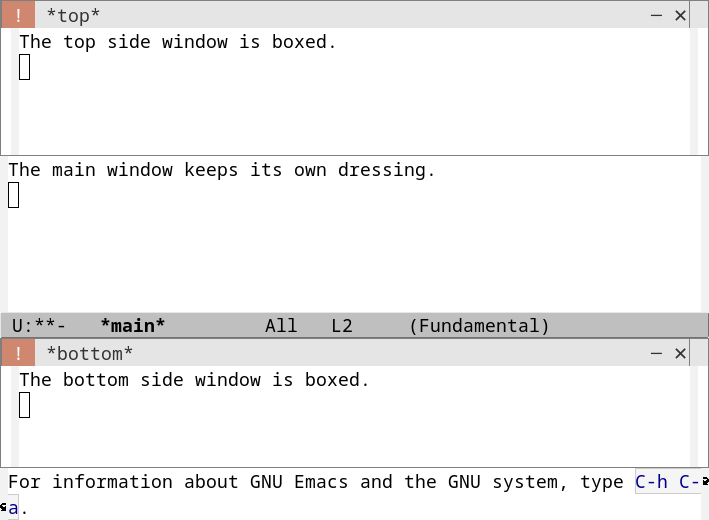
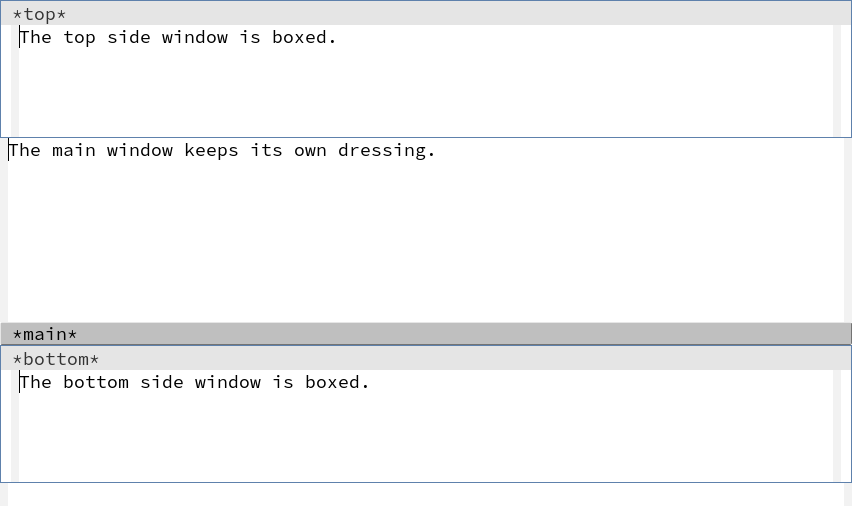
docs: one width and one theme for every picture
All five README pictures are 852 pixels wide and share one theme: a
white ground, near black text, the grey of a GUI mode line, and the
box in #5e81ac.  The screenshot of the side windows moves from the
measuring rig into shots.el, at the same frame as the other scenes.
The terminal picture, the odd dark one out, is painted with the
light palette onto a canvas of the same width; a terminal of 256
colors has no #5e81ac, so the scene names it and Emacs sends the
nearest, #5f87af.  Each picture validated pixel by pixel: text ink
dark, box blue, widths equal.

diff --git a/demo/shots.py b/demo/shots.py
@@ -18,19 +18,24 @@ import time
 import pyte
 from PIL import Image, ImageDraw, ImageFont
 
-COLS, ROWS = 84, 26
+WIDTH, ROWS = 852, 26
 # In order of preference, among the fonts that have the box drawing
 # characters — a font without them draws the box as nothing at all.
 FONTS = ["Source Code Pro", "DejaVu Sans Mono", "Liberation Mono"]
 SIZE = 15
 PAD = 10
-BACKGROUND = (28, 31, 38)
-FOREGROUND = (216, 222, 233)
+# The palette of the graphic screenshots: white ground, near black
+# text, the grey of a GUI mode line for reverse video, and "blue" as
+# the #5e81ac the graphic pictures draw the box in.  One theme for
+# every picture in the README.
+BACKGROUND = (255, 255, 255)
+FOREGROUND = (26, 26, 26)
+REVERSE = (229, 229, 229)
 NAMED = {
-    "black": (28, 31, 38), "red": (191, 97, 106), "green": (163, 190, 140),
-    "brown": (235, 203, 139), "blue": (94, 129, 172),
-    "magenta": (180, 142, 173), "cyan": (136, 192, 208),
-    "white": (216, 222, 233), "default": None,
+    "black": (26, 26, 26), "red": (150, 75, 85), "green": (90, 120, 60),
+    "brown": (146, 110, 42), "blue": (94, 129, 172),
+    "magenta": (140, 100, 133), "cyan": (70, 120, 135),
+    "white": (250, 250, 250), "default": None,
 }
 
 
@@ -50,12 +55,12 @@ def find_font():
     raise SystemExit("no font with box drawing characters found")
 
 
-def capture(script):
+def capture(script, cols):
     """Return the pyte screen after Emacs has drawn SCRIPT's session."""
-    screen = pyte.Screen(COLS, ROWS)
+    screen = pyte.Screen(cols, ROWS)
     stream = pyte.ByteStream(screen)
     env = dict(os.environ, TERM="xterm-256color",
-               COLUMNS=str(COLS), LINES=str(ROWS))
+               COLUMNS=str(cols), LINES=str(ROWS))
     emacs = env.get("EMACS", "emacs")
     pid, handle = pty.fork()
     if pid == 0:
@@ -85,23 +90,35 @@ def color(name, fallback):
         return fallback
 
 
-def paint(screen, path):
-    """Draw SCREEN into PATH."""
+def geometry(font):
+    """Return the columns and the left padding for the fixed WIDTH."""
+    width = font.getlength("M")
+    cols = int((WIDTH - 2 * PAD) // width)
+    pad = (WIDTH - int(width * cols)) // 2
+    return cols, pad
+
+
+def paint(screen, cols, pad, path):
+    """Draw SCREEN into PATH, on a canvas of exactly WIDTH pixels."""
     font = ImageFont.truetype(find_font(), SIZE)
     ascent, descent = font.getmetrics()
     width = font.getlength("M")
     height = ascent + descent
-    image = Image.new("RGB", (int(width * COLS) + 2 * PAD,
-                              height * ROWS + 2 * PAD), BACKGROUND)
+    image = Image.new("RGB", (WIDTH, height * ROWS + 2 * PAD), BACKGROUND)
     draw = ImageDraw.Draw(image)
     for row in range(ROWS):
-        for column in range(COLS):
+        for column in range(cols):
             cell = screen.buffer[row][column]
             foreground = color(cell.fg, FOREGROUND)
             background = color(cell.bg, BACKGROUND)
             if cell.reverse:
-                foreground, background = background, foreground
-            x, y = PAD + column * width, PAD + row * height
+                # A terminal shows reverse video; the theme of these
+                # pictures shows the grey of a GUI mode line.
+                if background == BACKGROUND:
+                    background = REVERSE
+                else:
+                    foreground, background = background, foreground
+            x, y = pad + column * width, PAD + row * height
             if background != BACKGROUND:
                 draw.rectangle([x, y, x + width, y + height], fill=background)
             if cell.data.strip():
@@ -112,7 +129,9 @@ def paint(screen, path):
 
 def main():
     script, target = sys.argv[1], sys.argv[2]
-    paint(capture(script), target)
+    font = ImageFont.truetype(find_font(), SIZE)
+    cols, pad = geometry(font)
+    paint(capture(script, cols), cols, pad, target)
     print(f"wrote {target}")
     return 0
 
